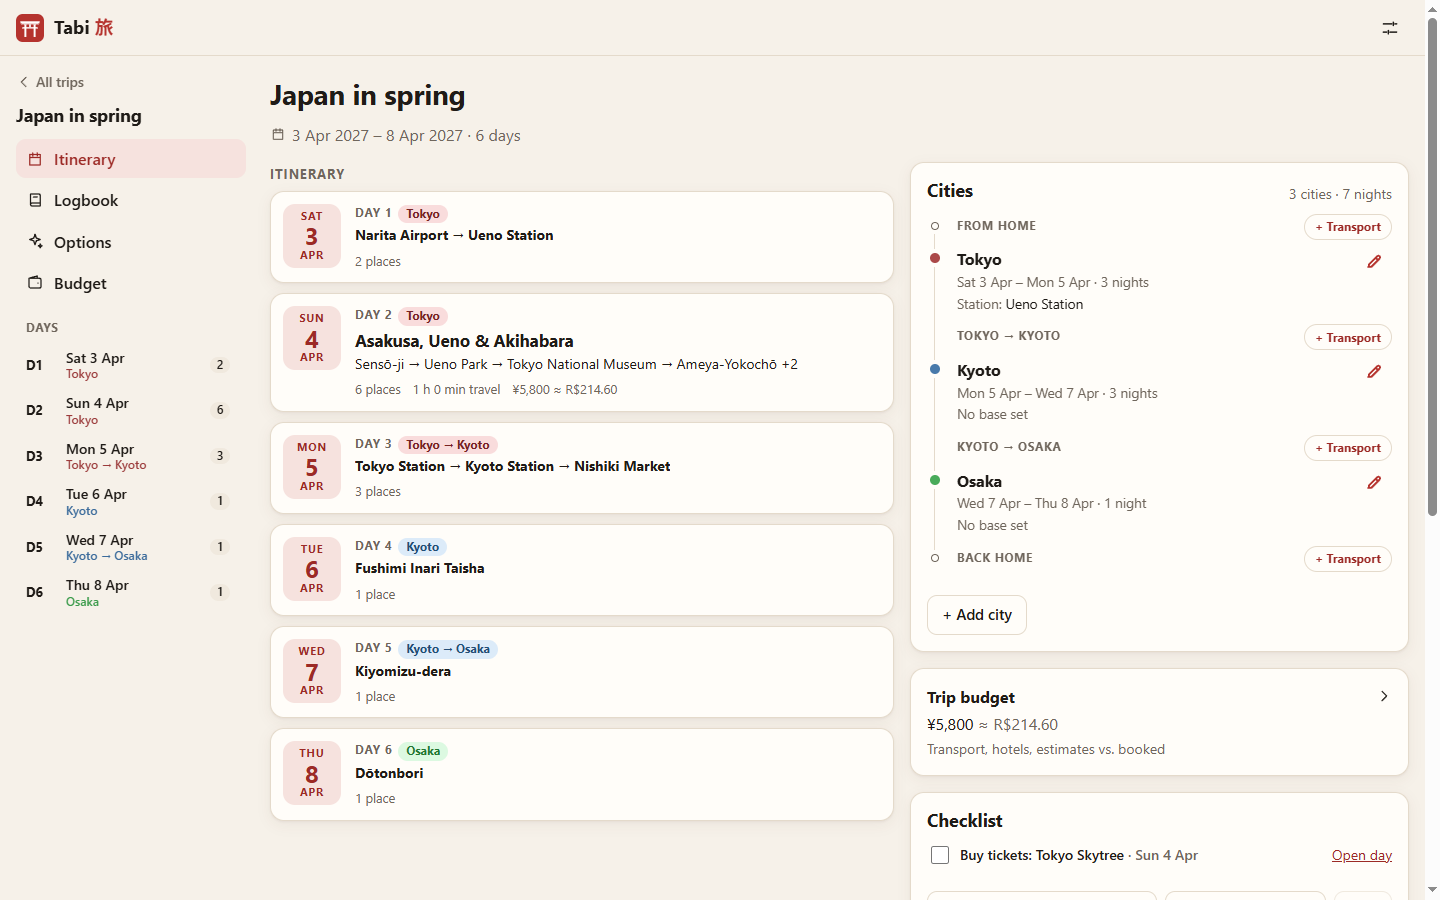
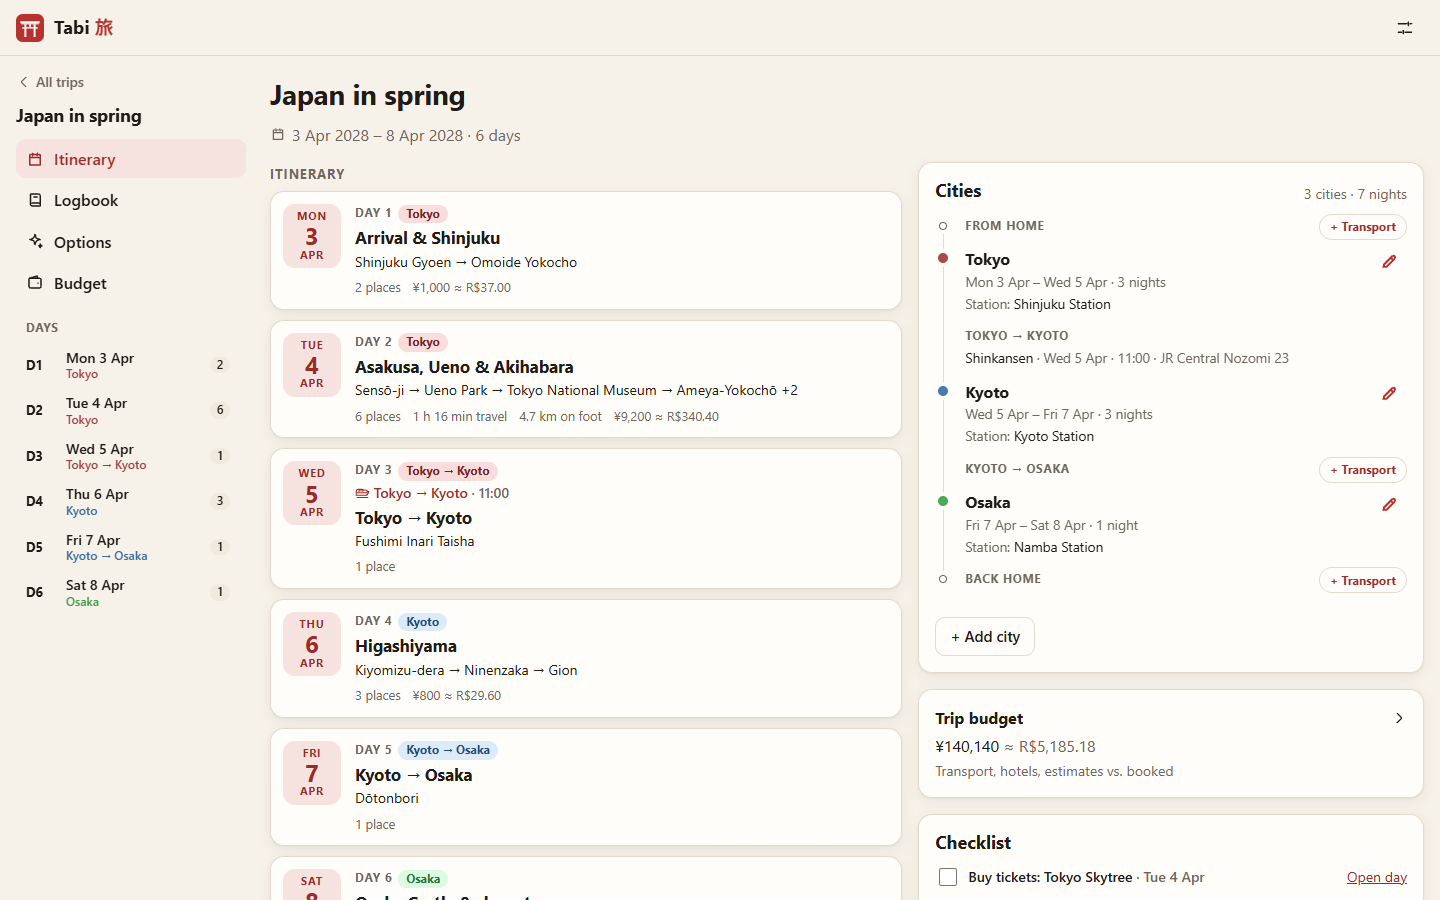
Update README and screenshots: options board with photos, current day and trip pages

diff --git a/README.md b/README.md
@@ -37,10 +37,10 @@ keep notes and costs together, and carry everything in your pocket without inter
 <td width="50%" valign="top">
 
 ### 🗺 Days on a map
-Each day is an ordered list of places, shown as numbered pins. Drag to reorder, add notes (history, tickets, tips), planned times and costs.
+Each day is an ordered list of places, shown as numbered pins. Drag to reorder, add notes (history, tickets, tips), planned times and costs, and see how far you'll walk that day.
 
 ### 🚇 Exactly how to get there
-Every leg A → B is a chain of steps, each with its own mode: *walk 7 min to Asakusa → Ginza Line to Ueno → walk to Ueno Park*. Ask for a suggested route (Google for walking, NAVITIME for public transit in Japan) arriving by or leaving at a chosen time, or draw it on the map yourself. Open a leg to read it like a station timeline: times, station numbers (G19), the entrance and exit to use, the train type and where it's bound for, the stops on the way and the best car to ride.
+Every leg A → B is a chain of steps, each with its own mode: *walk 7 min to Asakusa → Ginza Line to Ueno → walk to Ueno Park*. Ask for a suggested route (Google for walking, NAVITIME for public transit in Japan) arriving by or leaving at a chosen time, or draw it on the map yourself. Open a leg to see only its route on the map and read it like a station timeline: times, station numbers (G19), the entrance and exit to use, the train type and where it's bound for, the stops on the way and the best car to ride.
 
 ### 🕘 Opening hours & best order
 Type each place's hours and visit time. Tabi warns about visits that don't fit and suggests the best order for the day — computed on the device.
@@ -49,7 +49,7 @@ Type each place's hours and visit time. Tabi warns about visits that don't fit a
 <td width="50%" valign="top">
 
 ### 🏨 Options & comparison
-Collect the hotels, restaurants, places and flights you're considering. Rate them, add photos and prices, and compare them per city by price, distance and rating.
+Collect the hotels, restaurants, places, shops and transport you're considering. Rate them, add prices and photos (browse them in a carousel), and compare them per city by price, distance and rating. Then pick one straight into a day, from a list that shows each option's photo.
 
 ### 💴 Budget
 Costs for places, transport, lodging and extras, with totals per day and per trip, estimates vs. booked, and two currencies side by side.
@@ -79,6 +79,15 @@ Install it on your phone. Itineraries, notes, routes and costs stay readable wit
 <br><sub><b>Trip overview</b> — days, cities, budget and checklist</sub>
 </td>
 </tr>
+<tr>
+<td align="center" valign="top" colspan="2">
+<picture>
+  <source media="(prefers-color-scheme: dark)" srcset="docs/screenshots/options-desktop-dark.png">
+  <img src="docs/screenshots/options-desktop-light.png" alt="The options board: hotels in Tokyo with their first photo, price per night, stay total, distance from the city's base, rating and a score, with badges such as Closest, Cheapest and Best match" width="820">
+</picture>
+<br><sub><b>Options board</b> — photos, prices, distances and a score to compare them</sub>
+</td>
+</tr>
 </table>
 </div>
 
@@ -89,6 +98,7 @@ Install it on your phone. Itineraries, notes, routes and costs stay readable wit
 - ✅ **Checklist** — reminders, plus tickets and reservations to arrange before going.
 - 🌏 **Japanese names in English** — station and line names translated from Wikidata, with the Japanese as written on the signs right under them.
 - 🔗 **Open in Google Maps** — quick links for any place or leg when you're online.
+- 🔄 **Sync between devices** — optional, through your own Google Drive (trips, photos and settings).
 - 🌗 **Light & dark mode**, share or print a day, JSON backup to move a trip between PC and phone.
 
 ## 🧭 How it works
@@ -99,7 +109,7 @@ Install it on your phone. Itineraries, notes, routes and costs stay readable wit
 | Transit suggestions | NAVITIME | Google's Routes API returns no public-transit routes in Japan; NAVITIME is a Japanese routing provider |
 | During the trip (offline) | Tabi (PWA) + OpenStreetMap / Organic Maps | Google Maps can't show custom transit/walking routes offline |
 
-**All trip data lives on your device.** There is no backend server and no account.
+**All trip data lives on your device.** There is no backend server and no account to create. Optionally, sign in with Google to keep your devices in sync through a hidden app folder in your own Google Drive.
 
 ## 🛠 Tech stack
 

diff --git a/CLAUDE.md b/CLAUDE.md
@@ -193,3 +193,4 @@ Metric only (User's request): cm, kg, km, °C. Data researched in inches or poun
 - Before adding a dependency or calling a new paid-capable API, check it keeps the project at zero cost.
 - Small, incremental commits with clear English messages.
 - Run the dev server (`npm run dev`) and the build (`npm run build`) to verify changes before saying something works.
+- README screenshots (`docs/screenshots/`: day desktop/phone, trip, options; light and dark) show a demo trip "Japan in spring" with public places only, never User's data. They are taken in a throwaway Chromium profile (Playwright's, headless, driven by the DevTools protocol) against the dev server on 5177: the demo is built in the page with the app's own modules (`importBackup`, legs and NAVITIME-style details typed in, no API requests; option photos are drawn flat illustrations on a canvas). Last updated 2026-10-26.
